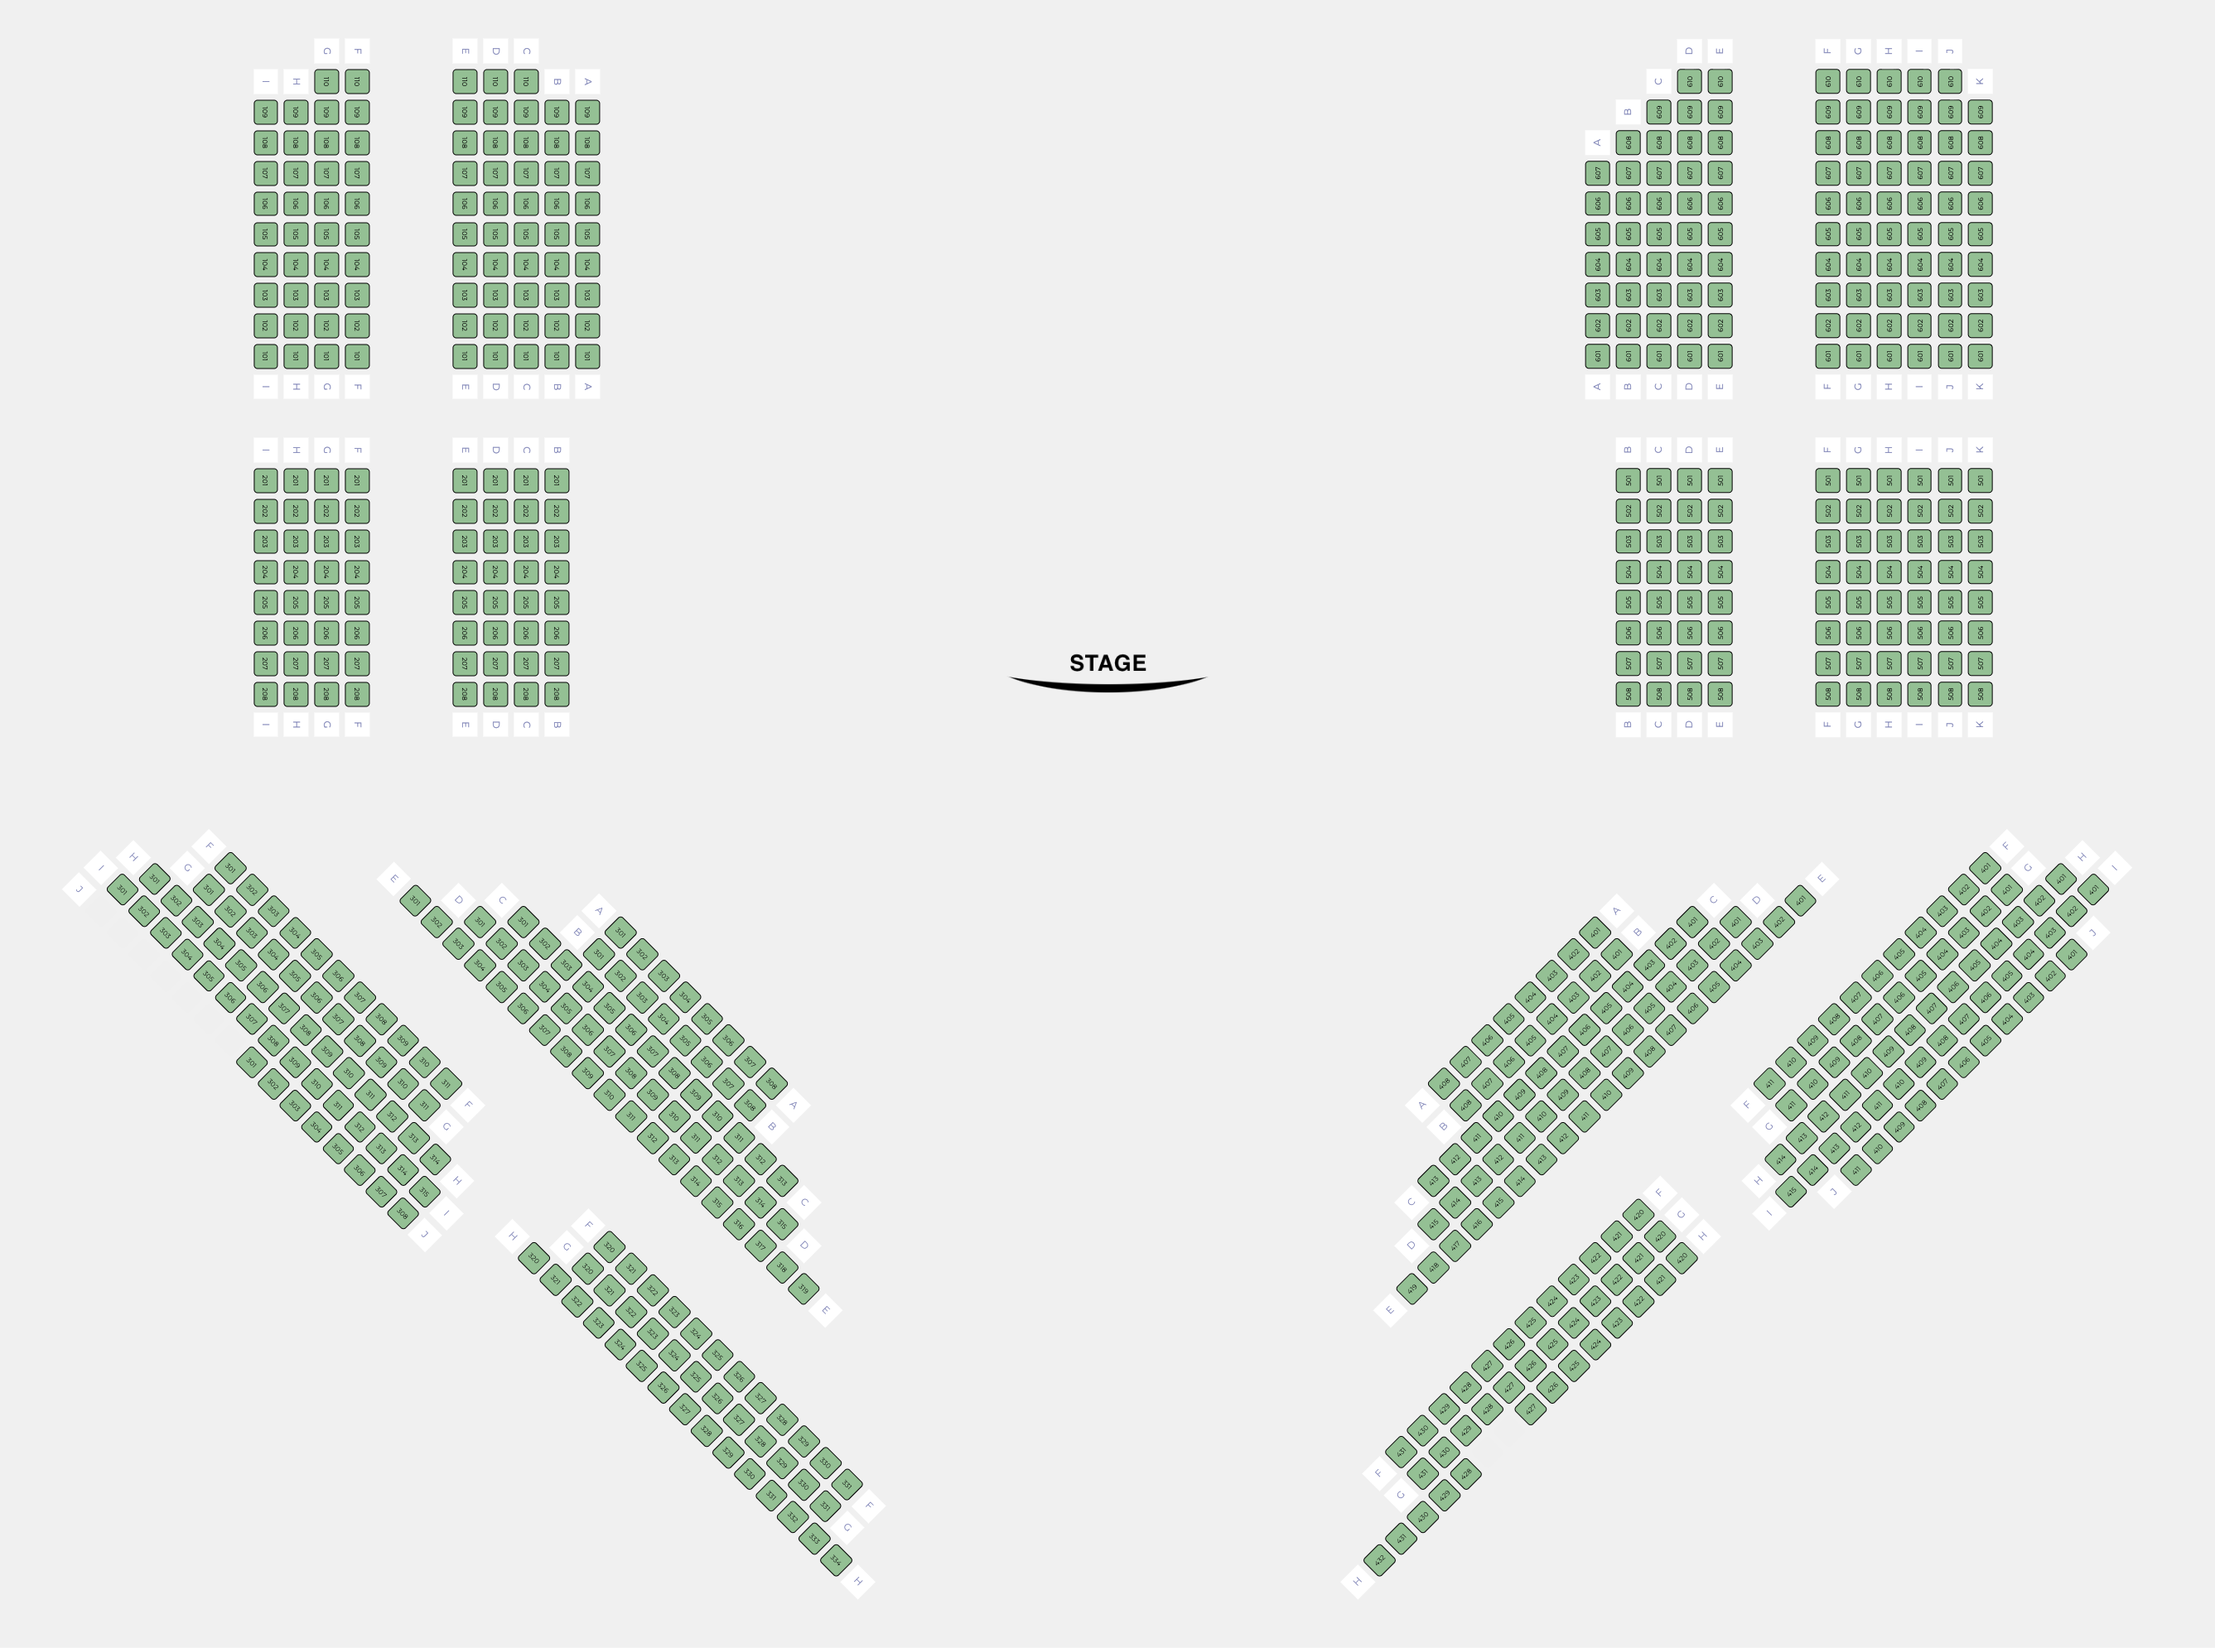
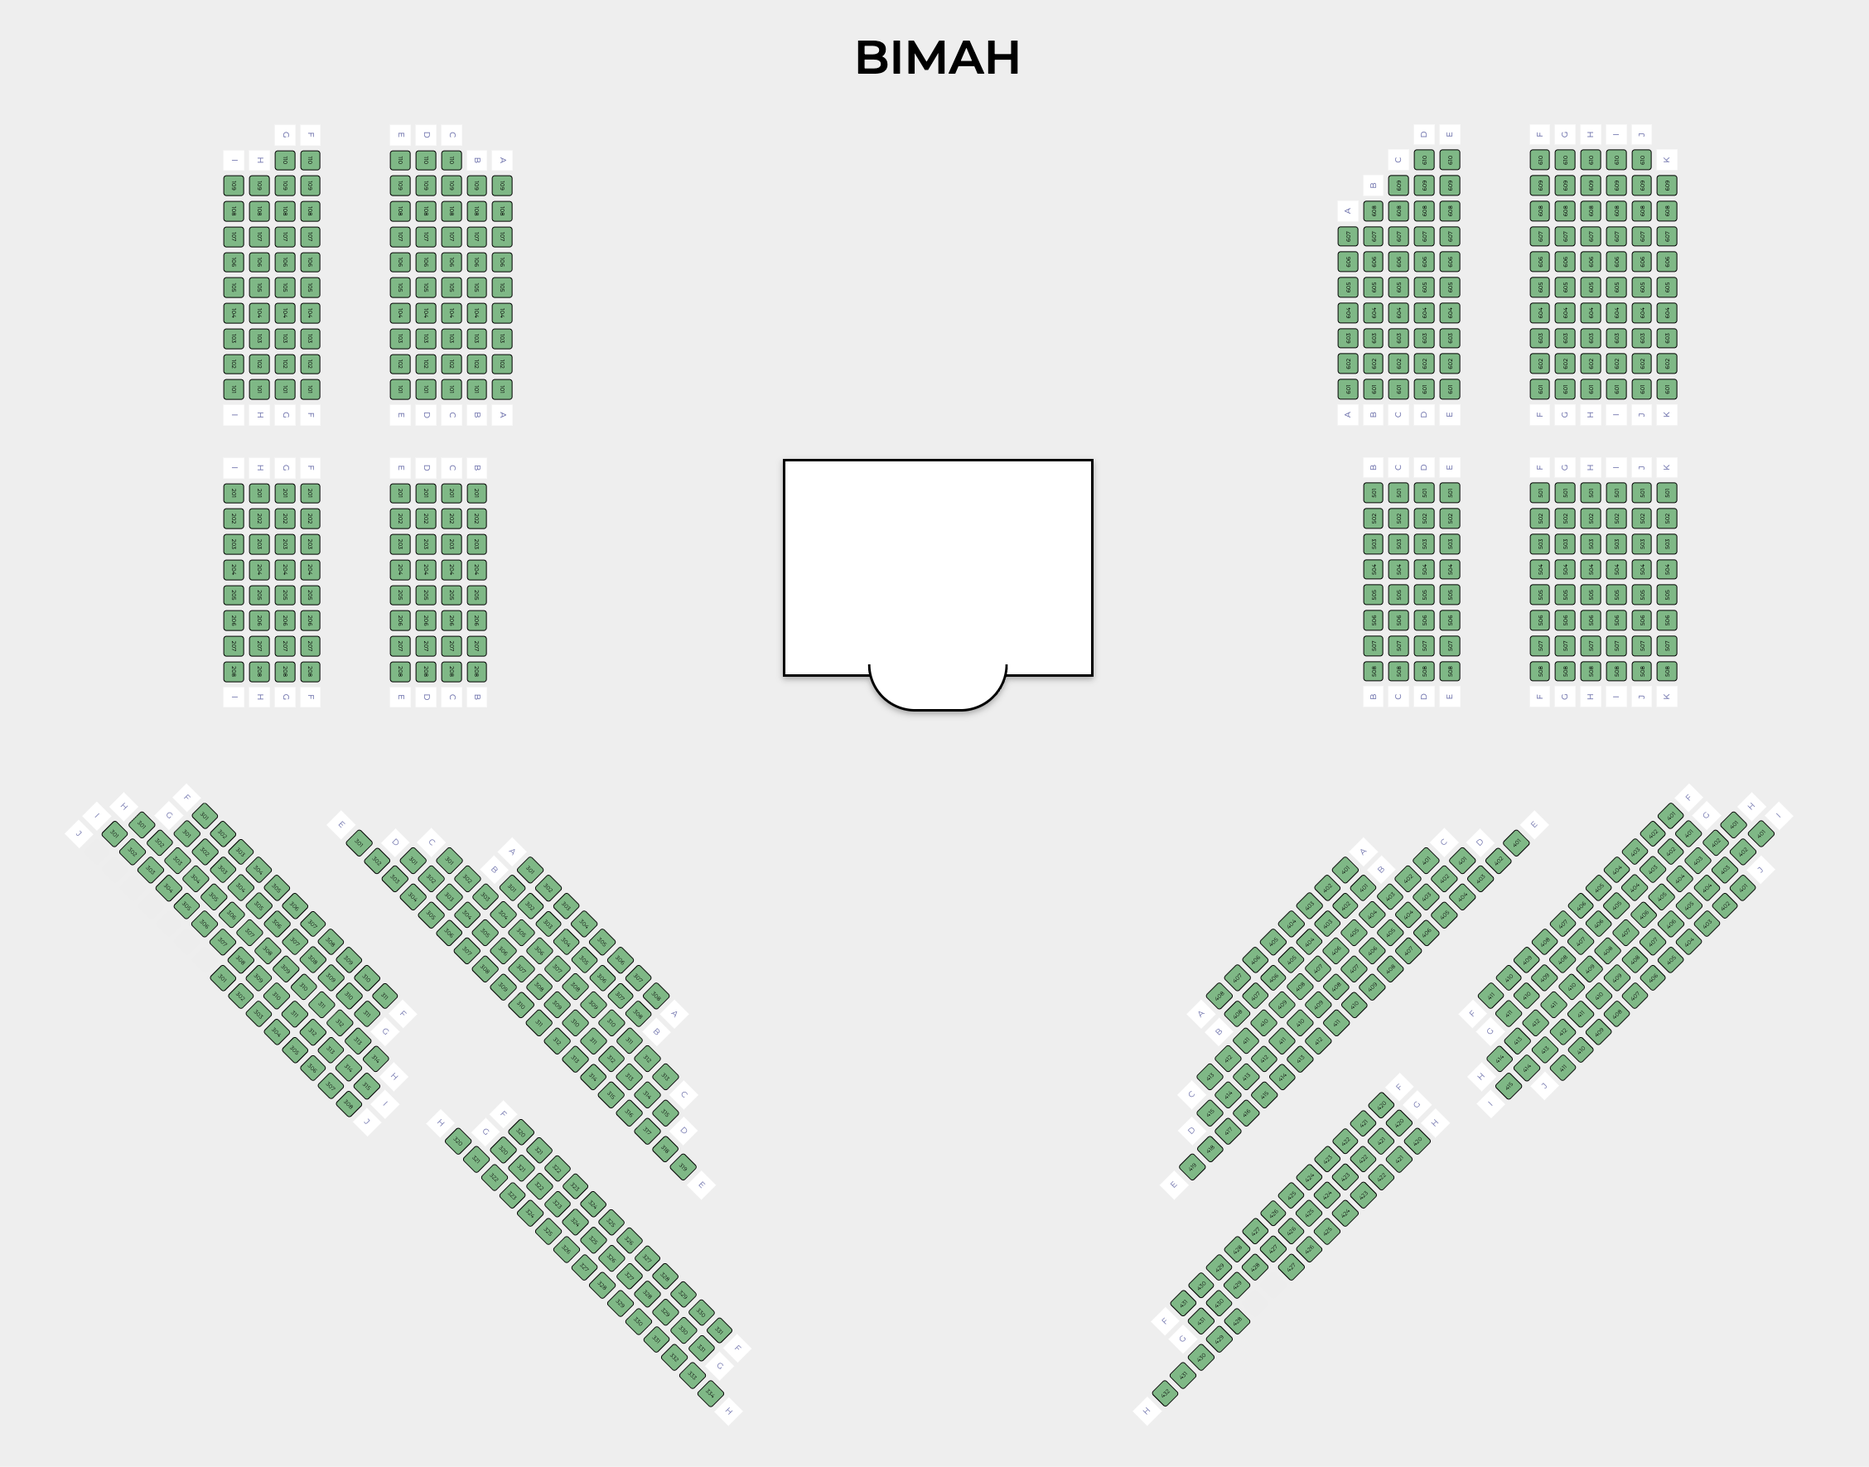
updates

diff --git a/html/66017.html b/html/66017.html
@@ -1,5 +1,83 @@
 <!-- Har Shalom Congregation -->
+<style>
+  .top-note {
+    position: relative;
+    z-index: 0;
+    top: 400px;
+    font-size: 75px;
+    font-weight: bold;
+    color: black;
+  }
+  .stage-container {
+    position: relative;
+    z-index: 0;
+    filter: drop-shadow(0px 5px 5px rgba(0, 0, 0, 0.3));
+  }
+  .stage-image {
+    position: relative;
+    z-index: 0;
+    width: 500px;
+    height: 350px;
+    background-color: white;
+    border: 5px solid black;
+    box-sizing: border-box;
+  }
+  .stage-image::after {
+    content: "";
+    position: absolute;
+    z-index: 0;
+    bottom: -60px;
+    left: 50%;
+    transform: translateX(-50%);
+    width: 225px;
+    height: 75px;
+    background-color: white;
+    border: 5px solid black;
+    border-top: none;
+    border-bottom-left-radius: 100px;
+    border-bottom-right-radius: 100px;
+  }
+  .stage-image::before {
+    content: "";
+    position: absolute;
+    bottom: -25px;
+    left: 50%;
+    transform: translateX(-50%);
+    width: 115px;
+    height: 40px;
+    background-color: white;
+    z-index: 0;
+  }
+</style>
+
 <table width="100%" border="0" cellspacing="0" cellpadding="0" align="center">
+  <tr>
+    <td>
+      <div align="center" style="position: relative; z-index: 0">
+        <img
+          src="https://s3.amazonaws.com/prdv2-dt-client/seating_images/pixel.png"
+          width="1"
+          height="25"
+        />
+      </div>
+    </td>
+  </tr>
+
+  <!-- NOTE -->
+  <tr>
+    <td>
+      <div align="center" style="position: relative">
+        <table align="center">
+          <tr>
+            <td>
+              <div class="top-note" align="center">BIMAH</div>
+            </td>
+          </tr>
+        </table>
+      </div>
+    </td>
+  </tr>
+
   <tr>
     <td>
       <div align="center" style="position: relative; z-index: 0">
@@ -15,13 +93,16 @@
   <!-- Stage Image -->
   <tr>
     <td>
-      <div align="center" style="position: relative; z-index: 0">
-        <img
-          src="https://s3.amazonaws.com/prdv2-dt-client/seating_images/stage.png"
-          alt="STAGE"
-          width="300"
-          height="80"
-        />
+      <div align="center" style="position: relative">
+        <table align="center">
+          <tr>
+            <td>
+              <div class="stage-container" align="center">
+                <div class="stage-image" align="center"></div>
+              </div>
+            </td>
+          </tr>
+        </table>
       </div>
     </td>
   </tr>
